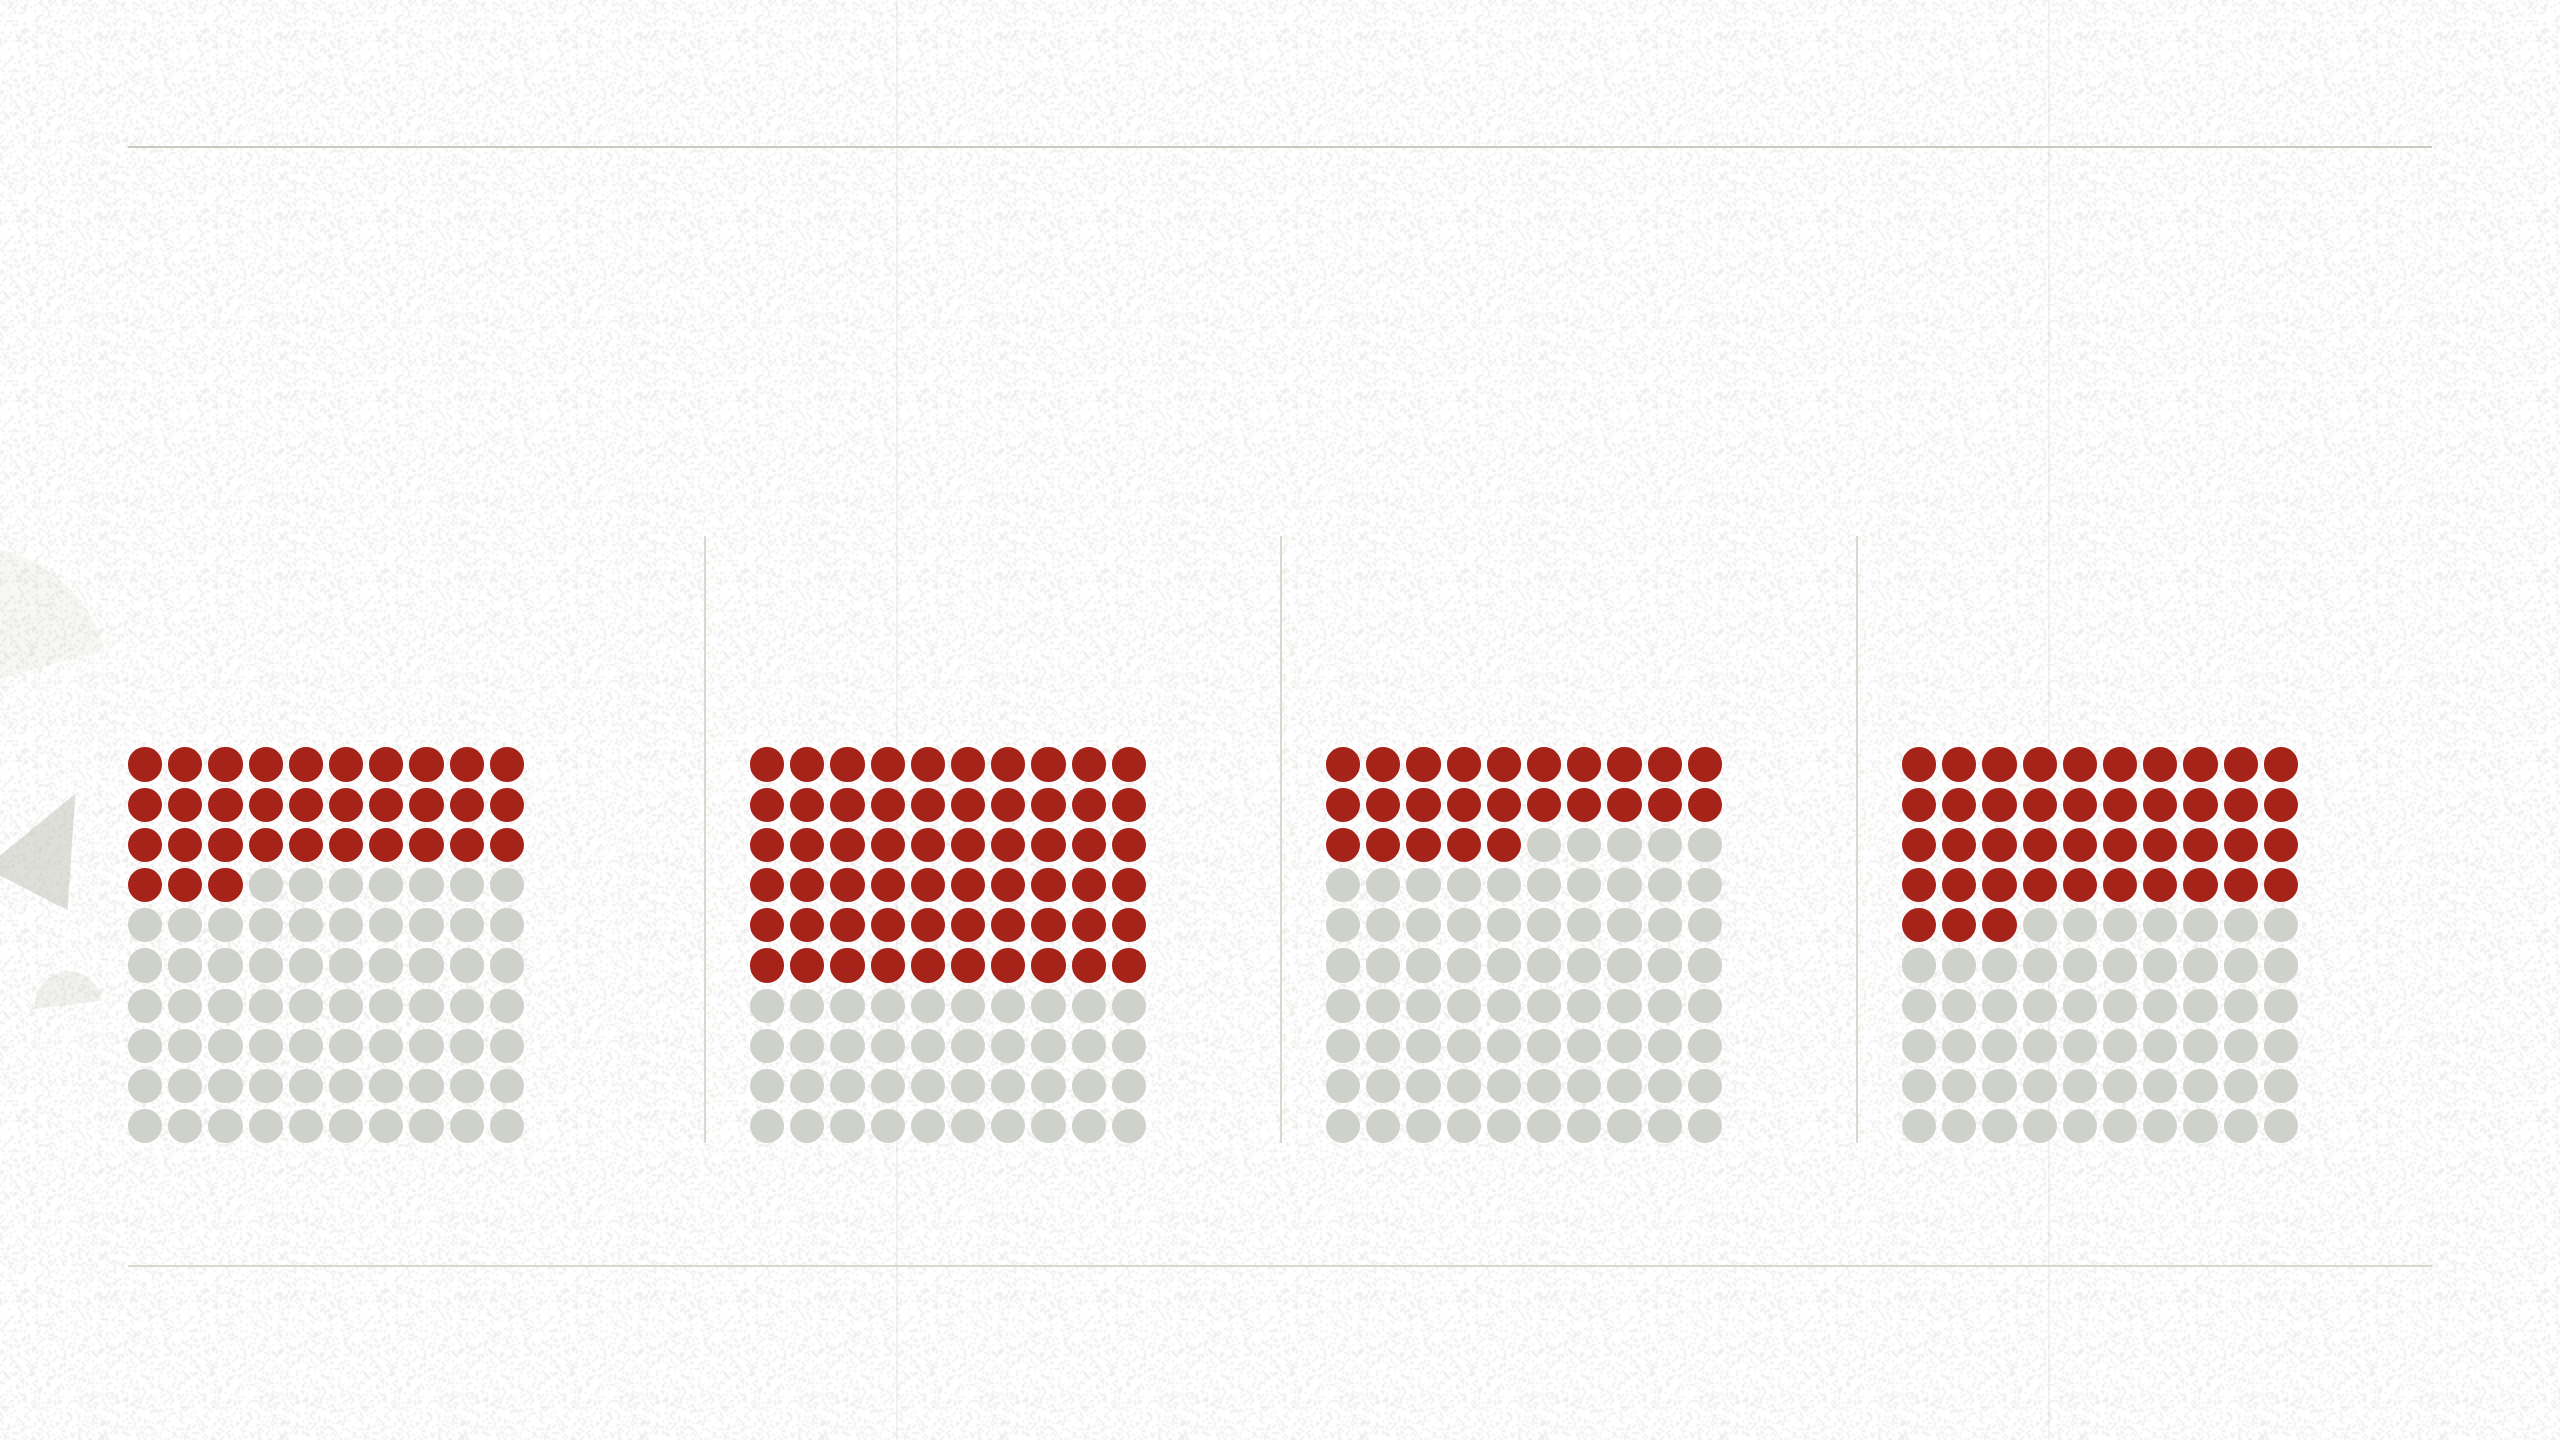
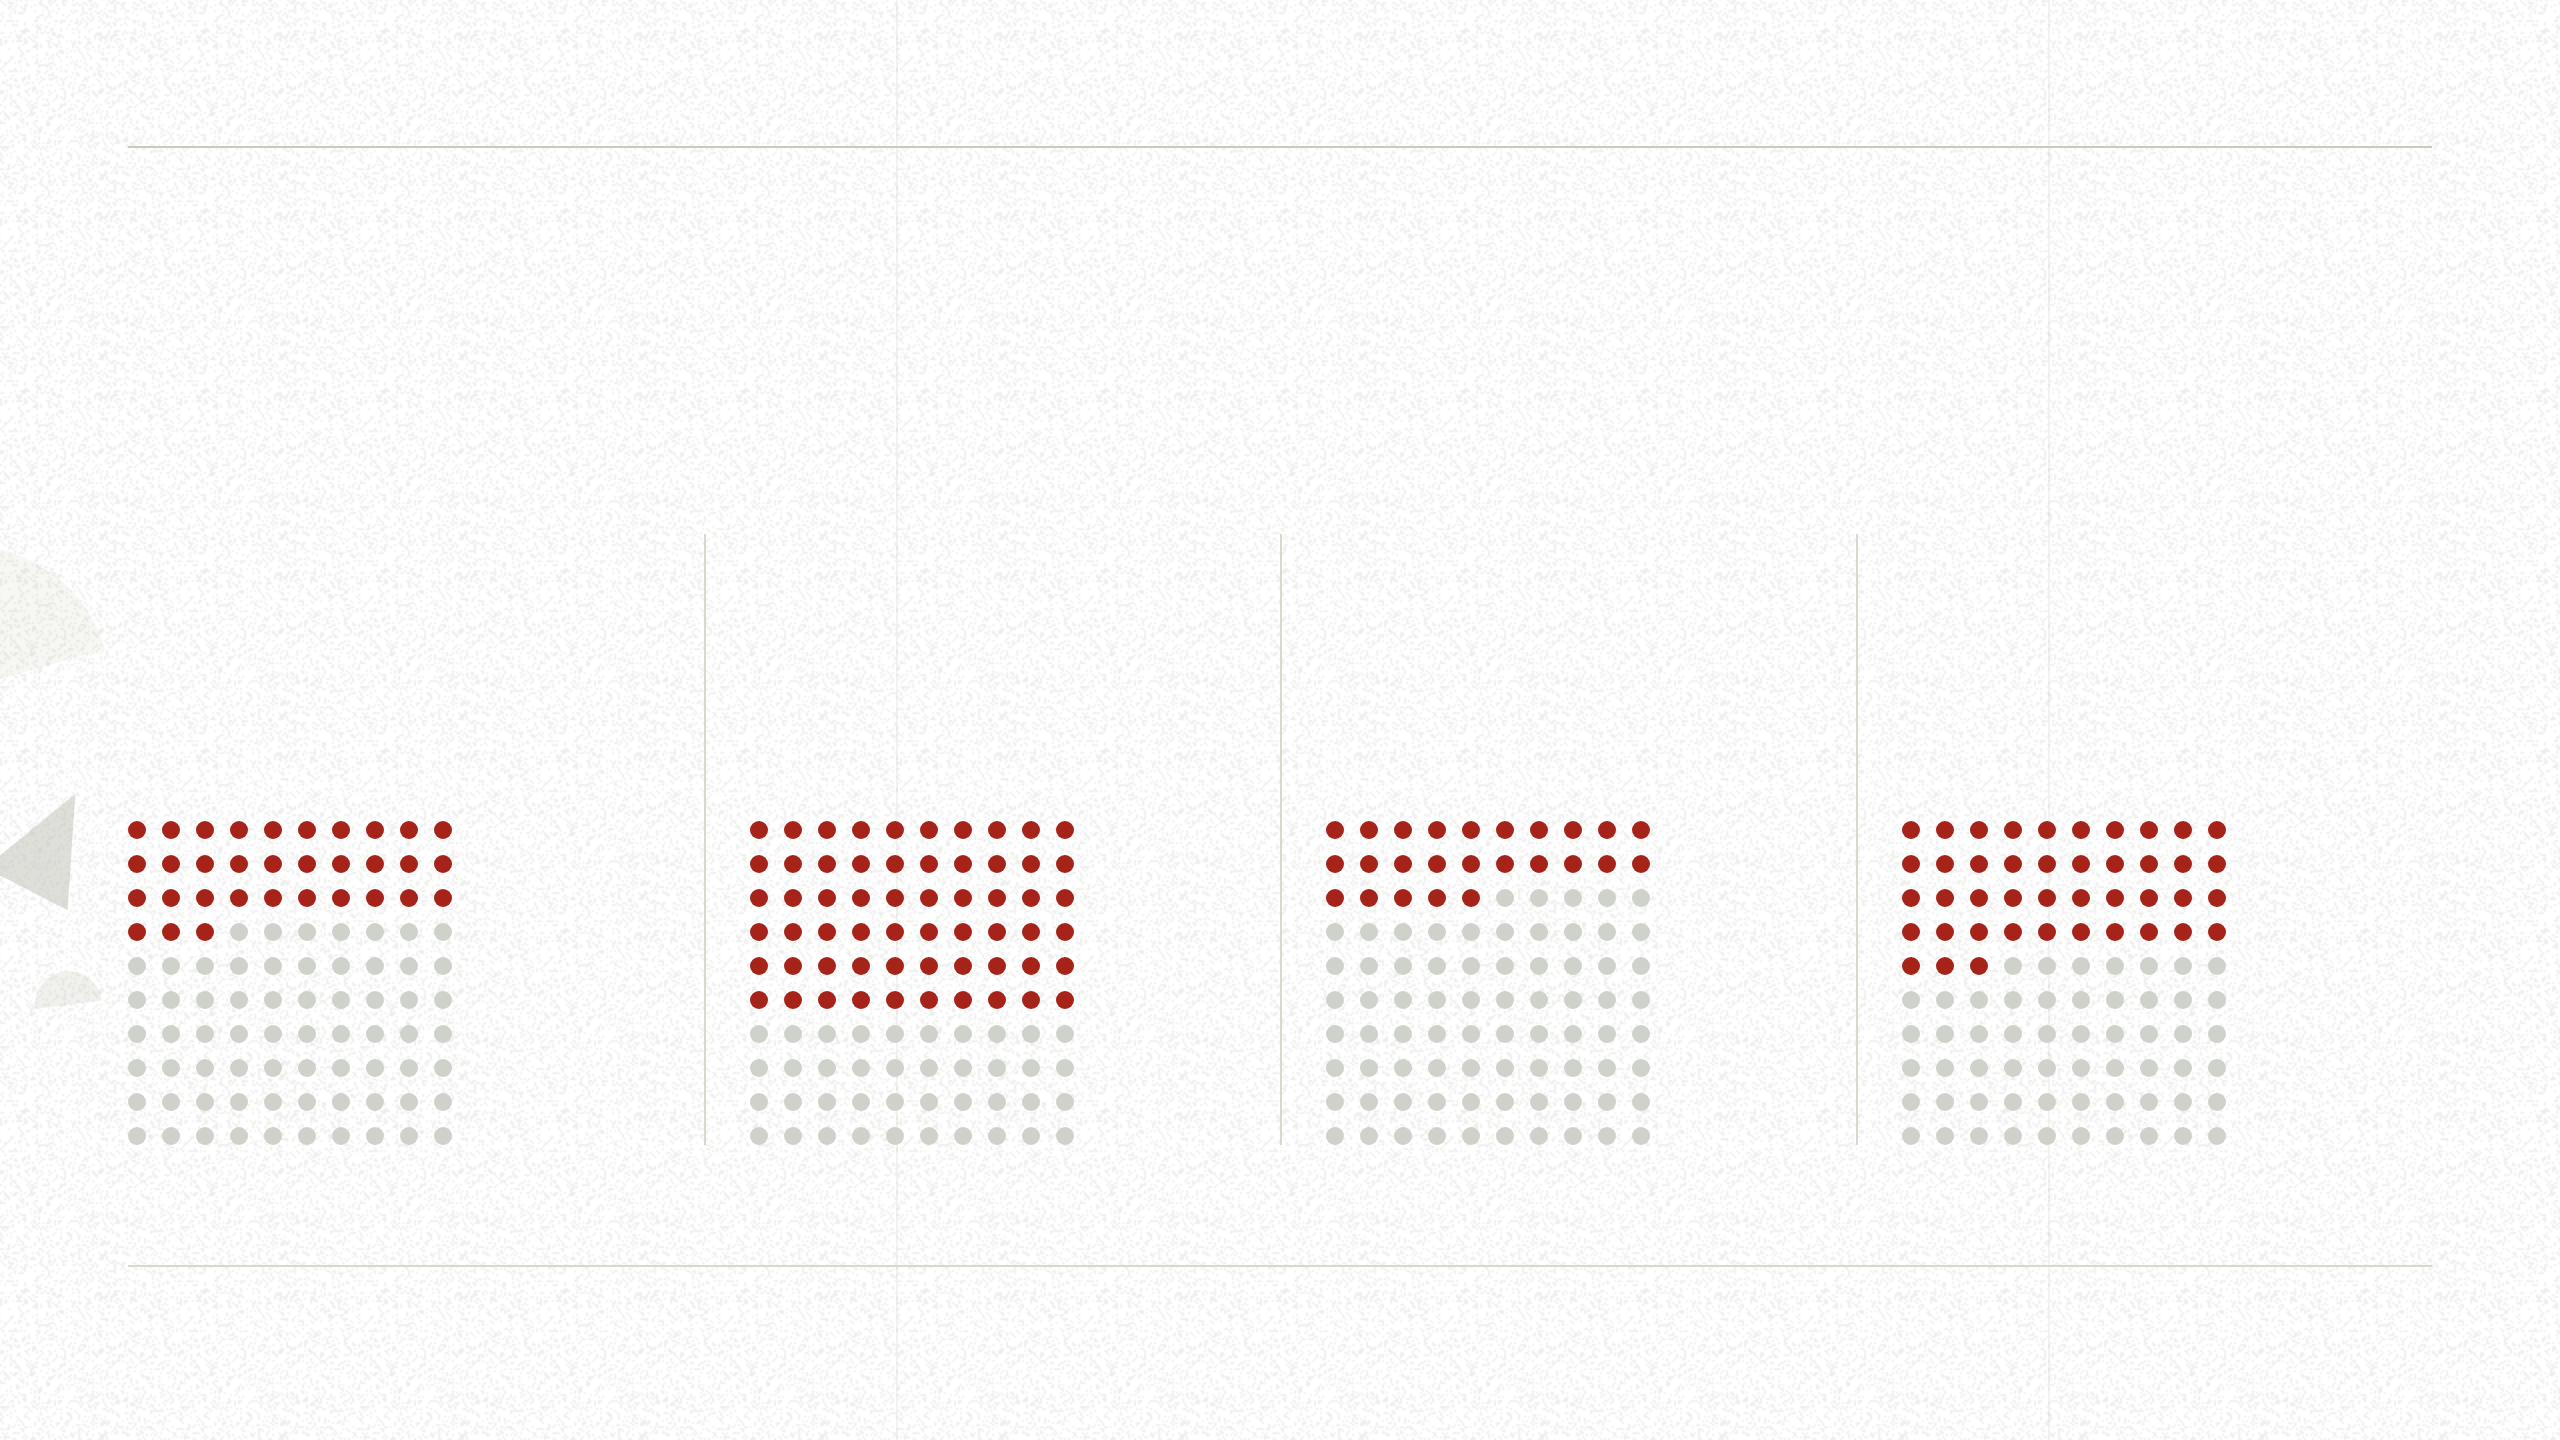
Open up the four-column blocks and let the type lead
The dots were filling their grid cells, so each block read as a solid mass rather
than as a hundred countable units. Diameter is now fixed at 9px with an 8px gap,
which reads as separate marks at presentation size and at 192 DPI.

That freed height, so the figure and its label take it: number 38 to 52px, label
13 to 16px. The block is now the quiet half of the column and the number is the
loud half, which is the right way round.

Label reserve raised to 2.7em. At 2.4em the one label that wraps to two lines
pushed its column's block 3px below the other three; all four now start at 411.

diff --git a/explorations/publisher-deck/deck.html b/explorations/publisher-deck/deck.html
@@ -177,12 +177,12 @@ h2{font-size:41px; line-height:1.08}
 .waffle{padding:0 22px; border-left:1px solid var(--line)}
 .waffle:first-child{padding-left:0; border-left:none}
 .waffle:last-child{padding-right:0}
-.w-num{font-family:var(--serif); font-weight:600; font-size:38px; line-height:1; letter-spacing:-.035em; color:var(--accent-live); font-variant-numeric:tabular-nums}
-.w-num .pct{font-size:22px}
-.w-lab{font-size:13px; font-weight:600; line-height:1.3; color:var(--ink); margin-top:11px; min-height:2.4em}
-.w-when{font-family:var(--mono); font-size:9px; letter-spacing:.15em; text-transform:uppercase; color:var(--mute); margin-top:2px}
-.w-grid{display:grid; grid-template-columns:repeat(10,1fr); gap:3px; margin-top:12px; max-width:198px}
-.w-grid i{display:block; aspect-ratio:1; border-radius:50%; background:#CFD1CB}
+.w-num{font-family:var(--serif); font-weight:600; font-size:52px; line-height:1; letter-spacing:-.035em; color:var(--accent-live); font-variant-numeric:tabular-nums}
+.w-num .pct{font-size:29px}
+.w-lab{font-size:16px; font-weight:600; line-height:1.3; color:var(--ink); margin-top:14px; min-height:2.7em}
+.w-when{font-family:var(--mono); font-size:10px; letter-spacing:.15em; text-transform:uppercase; color:var(--mute); margin-top:2px}
+.w-grid{display:grid; grid-template-columns:repeat(10,9px); gap:8px; margin-top:20px}
+.w-grid i{display:block; width:9px; height:9px; border-radius:50%; background:#CFD1CB}
 .w-grid i.on{background:var(--accent-live)}
 
 /* ---------- 5 &middot; valuation ---------- */
